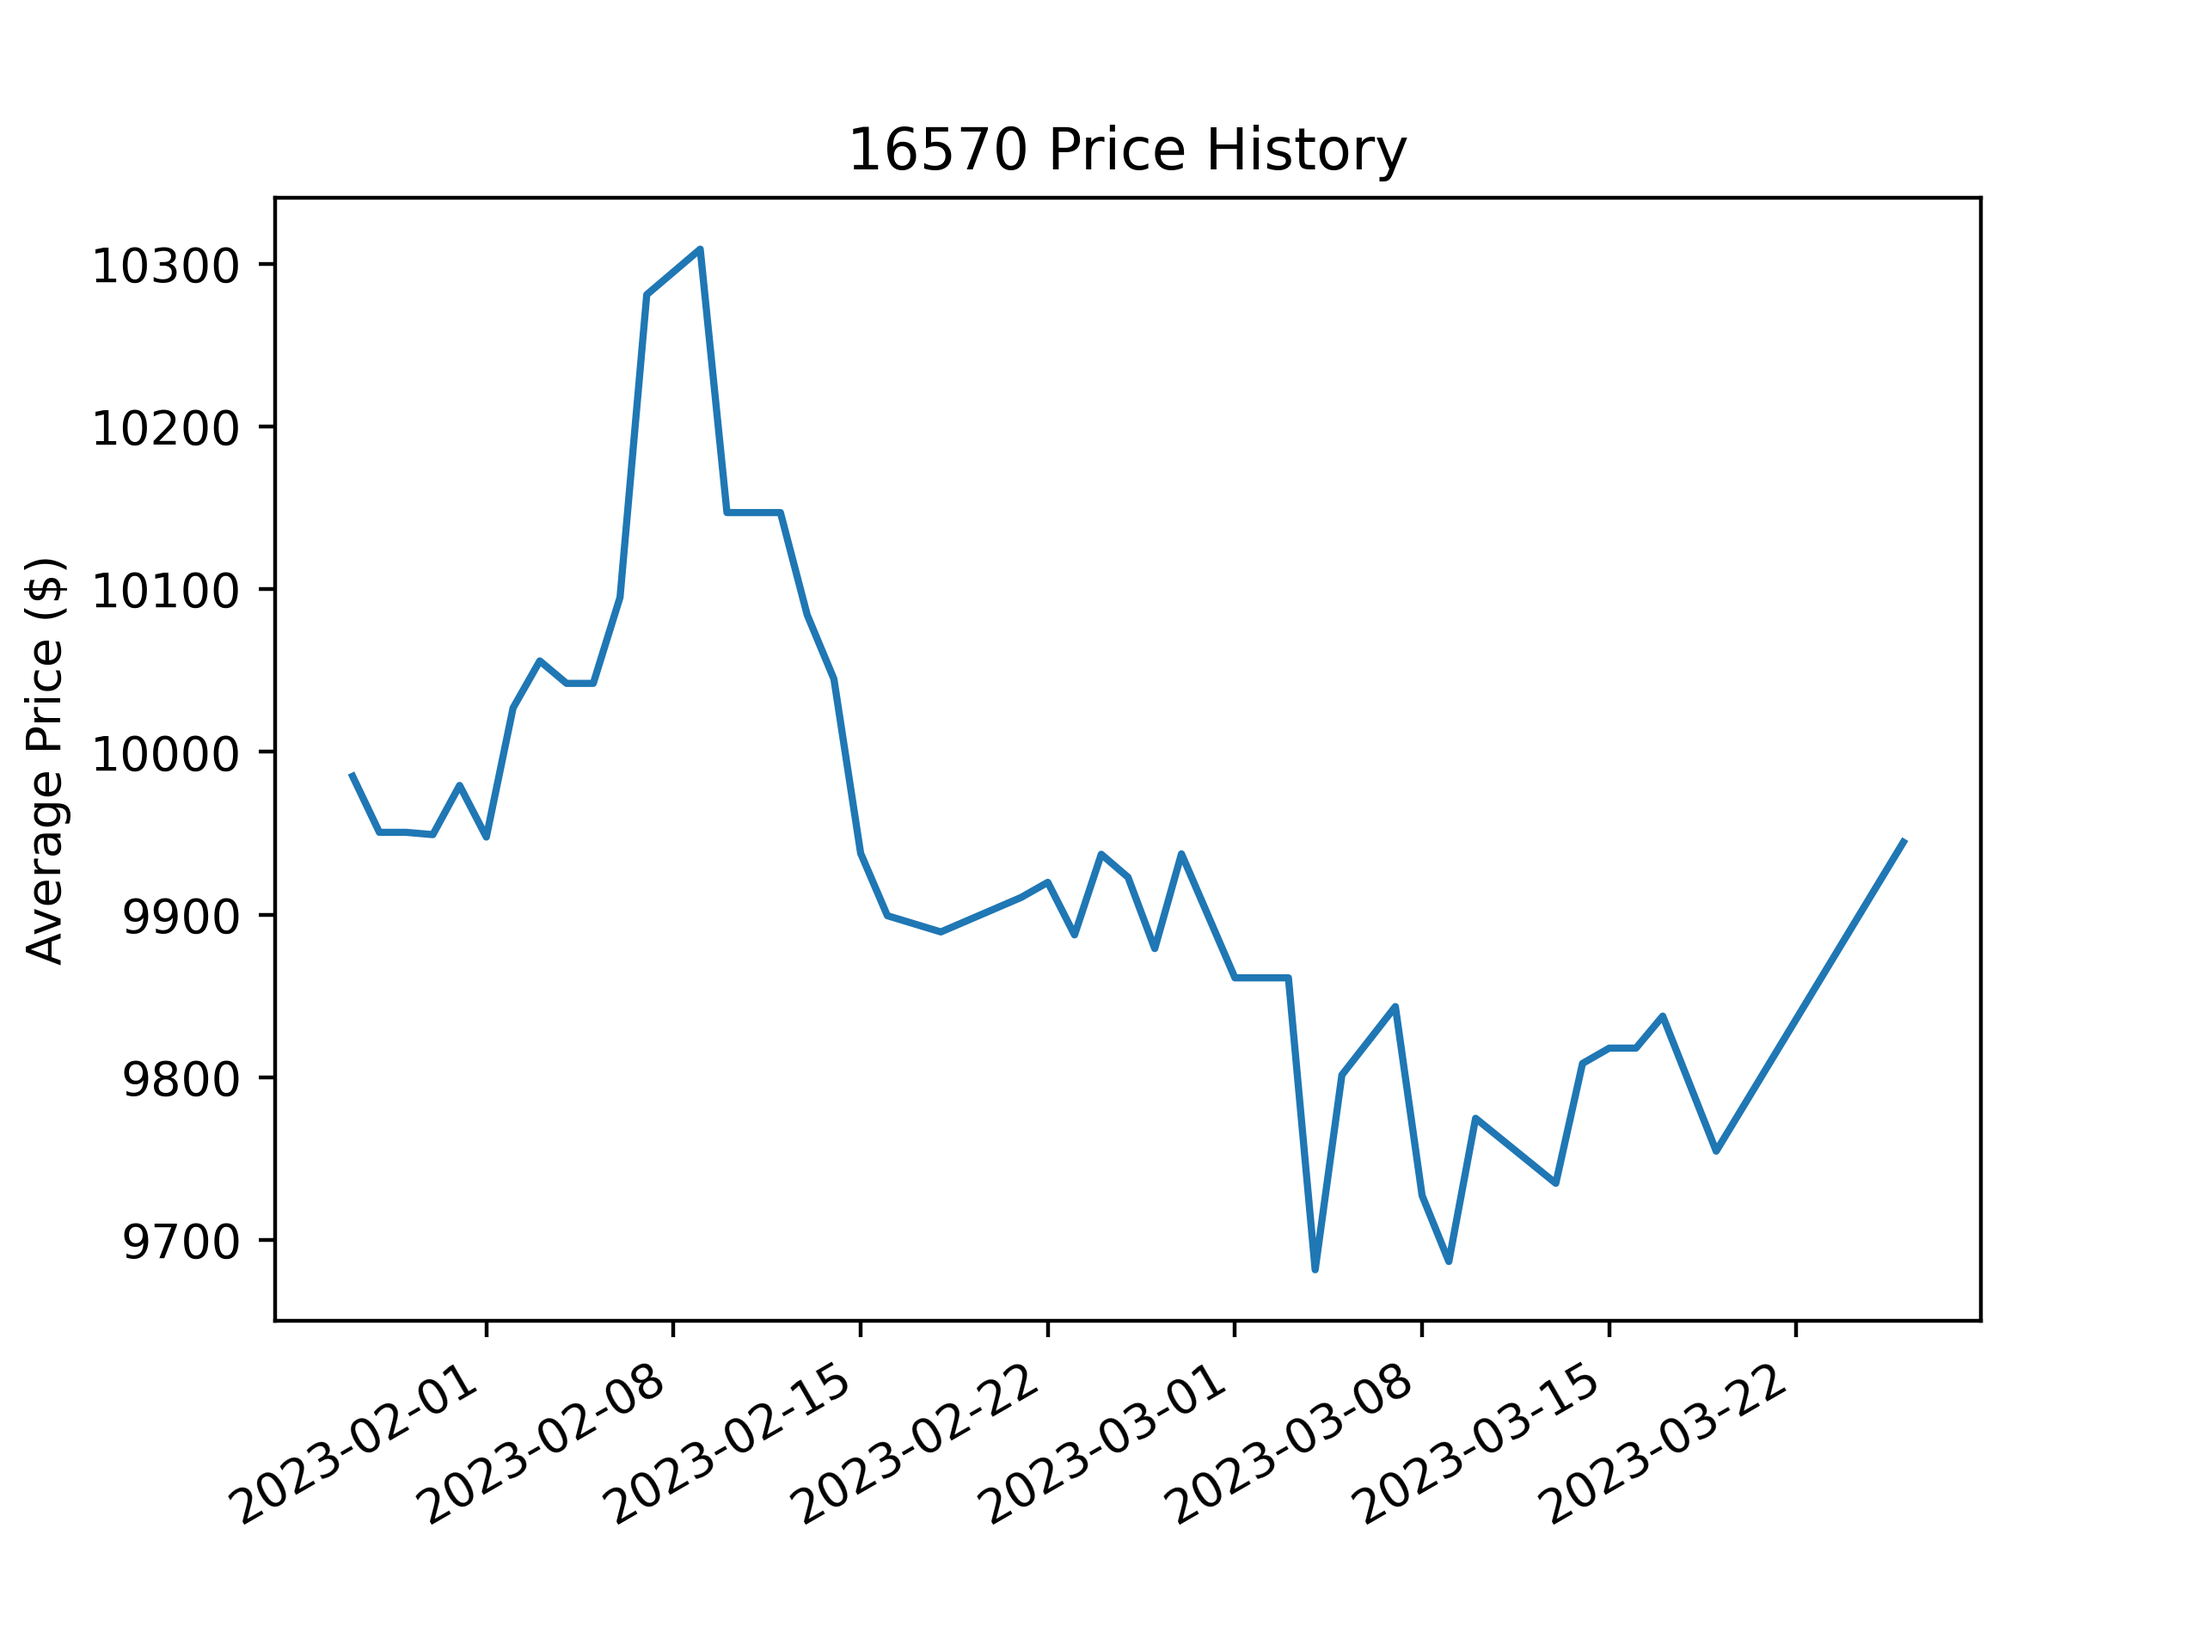
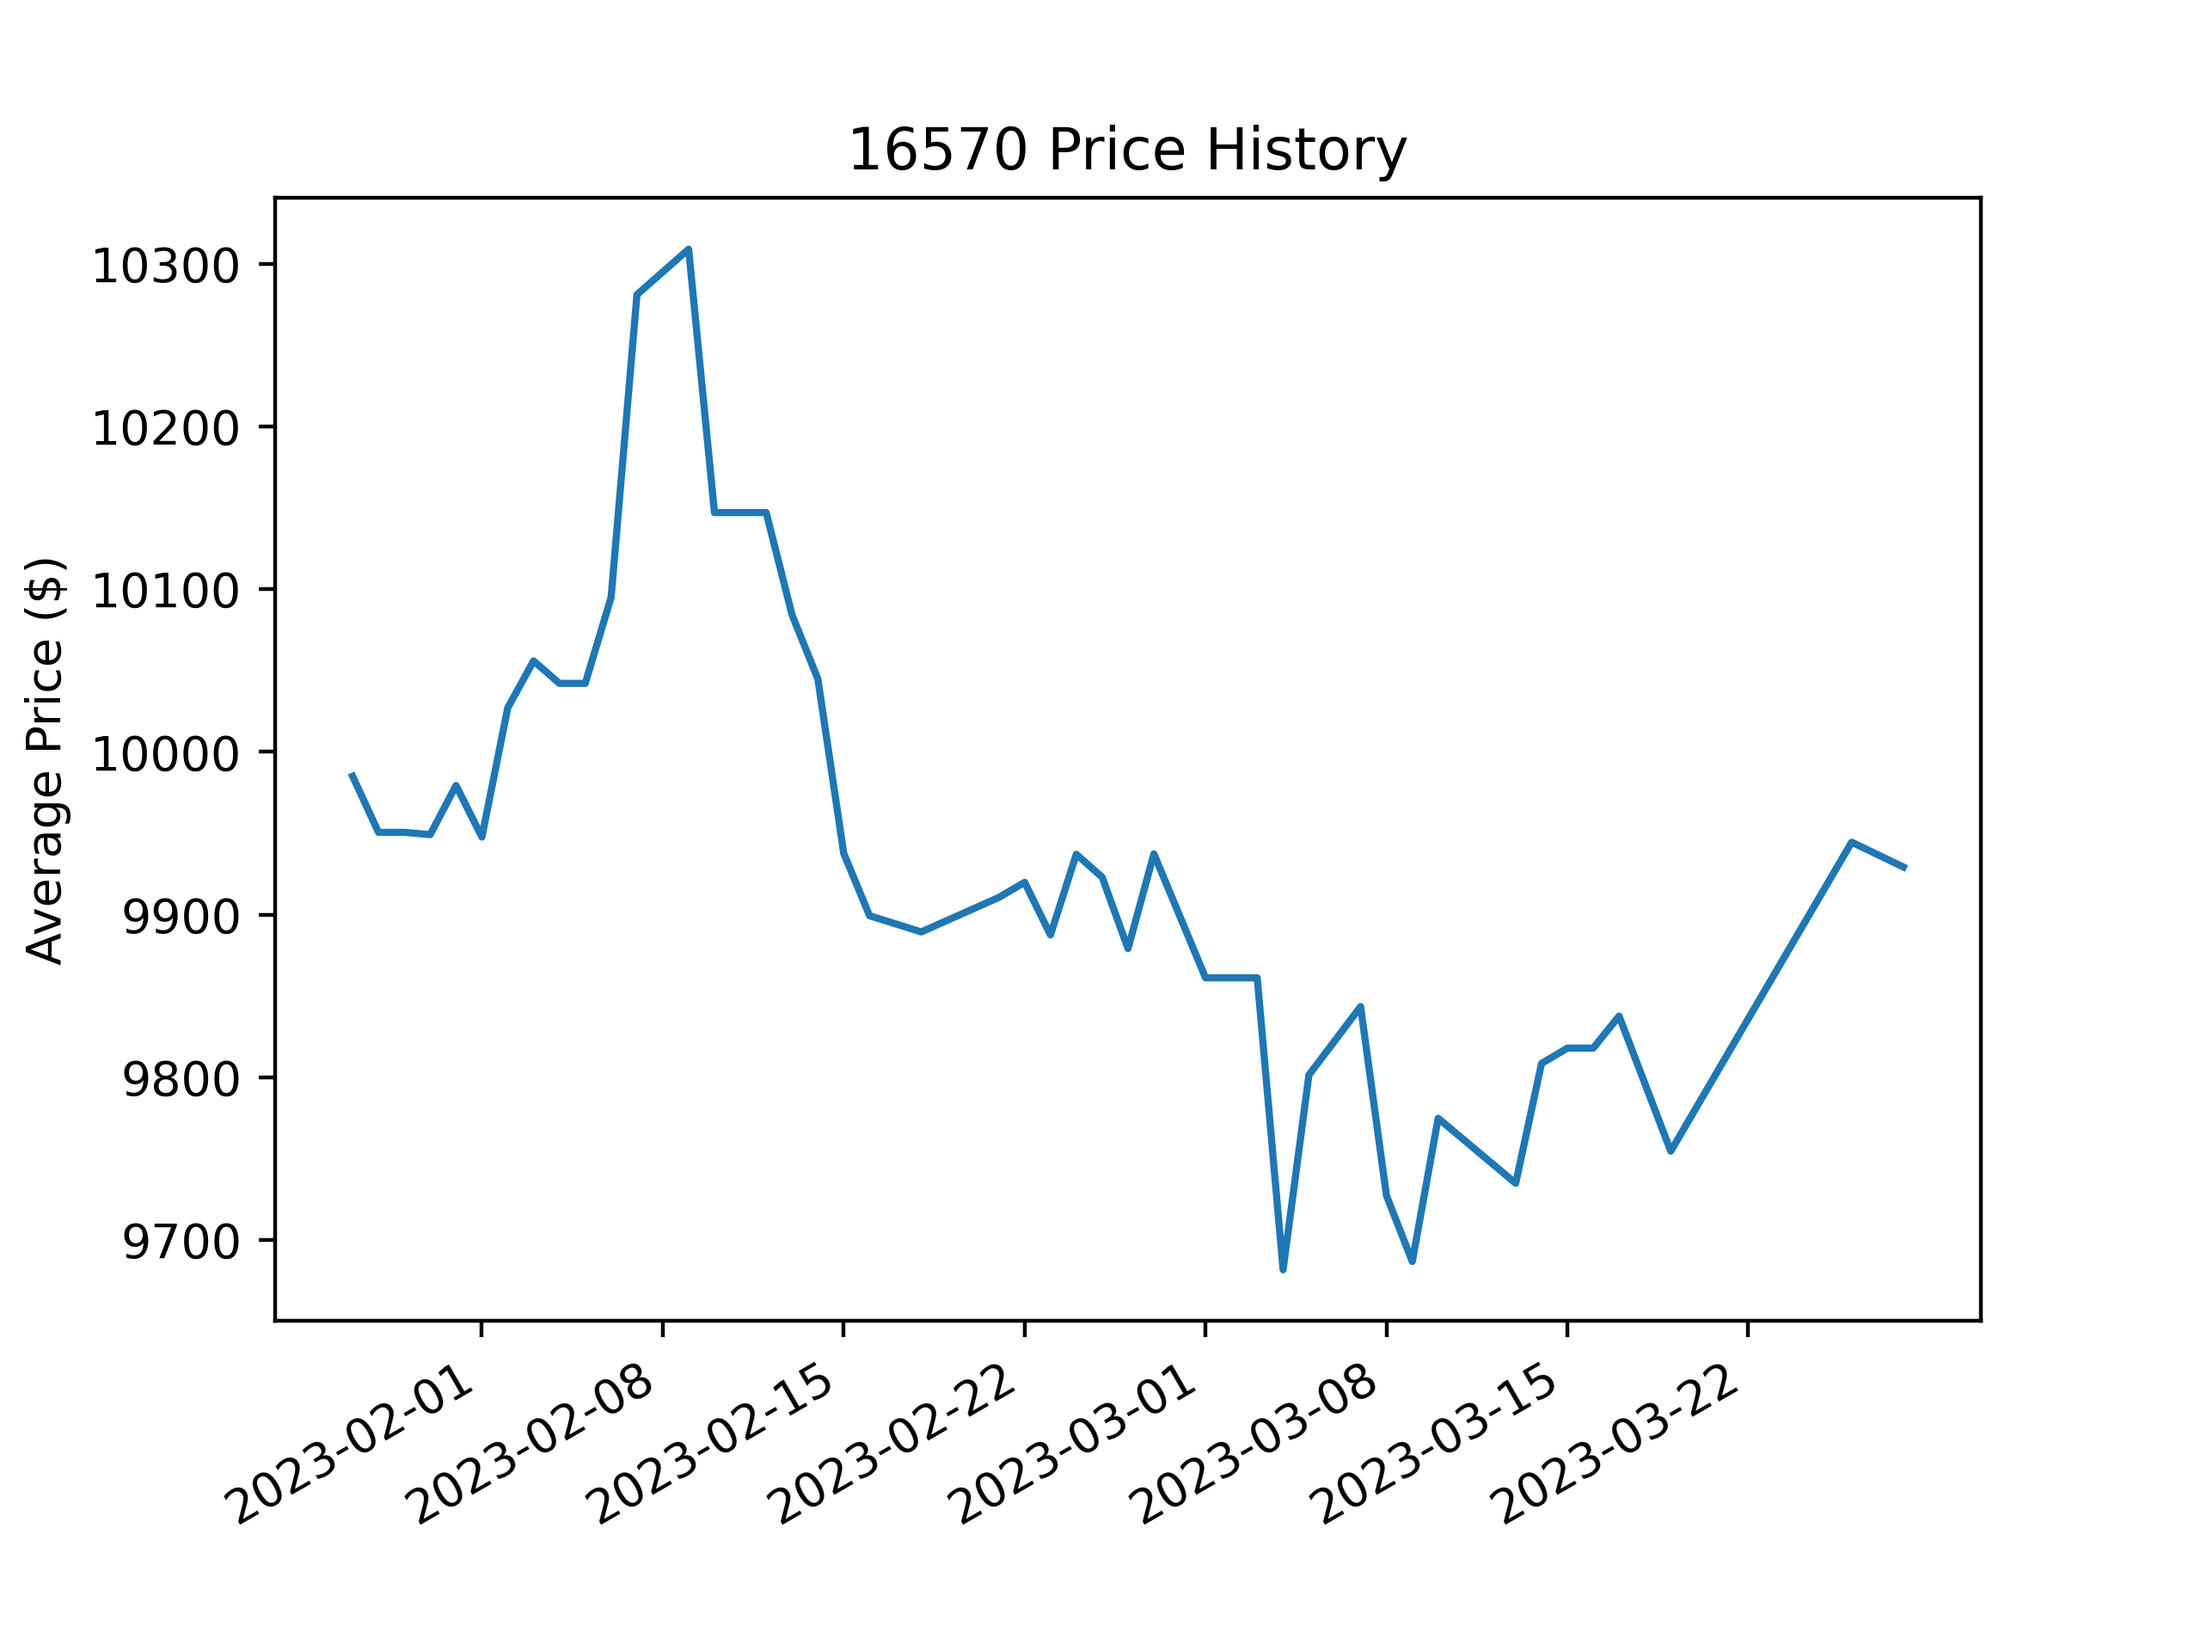
today's prices

diff --git a/watches/16570/listings.html b/watches/16570/listings.html
@@ -1,1 +1,1 @@
-<!DOCTYPE html><html><body><h1>All listings sorted in ascending order by price</h1><div> <a href="https://www.crownandcaliber.com/products/rolex-explorer-ii-16570-10-10-rol-s1rugm" target="_blank" rel="noopener noreferrer">$8275</a> </div><div> <a href="https://www.thewatchbox.com/shop/4560504.html" target="_blank" rel="noopener noreferrer">$8950</a> </div><div> <a href="https://www.crownandcaliber.com/products/rolex-explorer-ii-16570-10-10-rol-40mq2n" target="_blank" rel="noopener noreferrer">$9000</a> </div><div> <a href="https://www.watchfinder.com/Rolex/Explorer II/16570/1780/item/232242" target="_blank" rel="noopener noreferrer">$9050</a> </div><div> <a href="https://www.crownandcaliber.com/products/rolex-explorer-ii-16570-10-10-rol-ngl42x" target="_blank" rel="noopener noreferrer">$9150</a> </div><div> <a href="https://www.crownandcaliber.com/products/rolex-explorer-ii-16570-10-10-rol-rcg6ap" target="_blank" rel="noopener noreferrer">$9150</a> </div><div> <a href="https://www.thewatchbox.com/shop/4652947.html" target="_blank" rel="noopener noreferrer">$9450</a> </div><div> <a href="https://www.watchfinder.com/Rolex/Explorer II/16570/1780/item/241538" target="_blank" rel="noopener noreferrer">$9600</a> </div><div> <a href="https://aiswatches.com/rolex-polar-explorer-ii-16570-p-serial-white-dial-box-papers-rsc-serviced/" target="_blank" rel="noopener noreferrer">$9775.0</a> </div><div> <a href="https://aiswatches.com/rolex-polar-explorer-ii-16570-y-serial-white-dial-box-paper-1/" target="_blank" rel="noopener noreferrer">$9775.0</a> </div><div> <a href="https://www.watchfinder.com/Rolex/Explorer II/16570/1780/item/231382" target="_blank" rel="noopener noreferrer">$9830</a> </div><div> <a href="https://mandbwatches.com/product/rolex-explorer-ii-40mm-16570-stainless-steel-polar-white-dial-w-papers-unpolished/" target="_blank" rel="noopener noreferrer">$9950.0</a> </div><div> <a href="https://www.watchfinder.com/Rolex/Explorer II/16570/1780/item/233065" target="_blank" rel="noopener noreferrer">$10175</a> </div><div> <a href="https://www.watchfinder.com/Rolex/Explorer II/16570/1780/item/241725" target="_blank" rel="noopener noreferrer">$10310</a> </div><div> <a href="https://www.watchfinder.com/Rolex/Explorer II/16570/1780/item/233010" target="_blank" rel="noopener noreferrer">$10310</a> </div><div> <a href="https://www.watchfinder.com/Rolex/Explorer II/16570/1780/item/239520" target="_blank" rel="noopener noreferrer">$10660</a> </div><div> <a href="https://www.watchfinder.com/Rolex/Explorer II/16570/1780/item/235967" target="_blank" rel="noopener noreferrer">$10855</a> </div><div> <a href="https://aiswatches.com/rolex-polar-explorer-ii-16570-v-serial-white-dial-3186-movement-box-papers/" target="_blank" rel="noopener noreferrer">$10975.0</a> </div><div> <a href="https://aiswatches.com/rolex-polar-explorer-ii-16570-m-serial-white-dial-3186-movement-box-papers/" target="_blank" rel="noopener noreferrer">$10975.0</a> </div><div> <a href="https://davidsw.com/shop/watch/rolex/rolex-16570-explorer-ii-with-white-dial-86/" target="_blank" rel="noopener noreferrer">$12675.0</a> </div></body></html>
+<!DOCTYPE html><html><body><h1>All listings sorted in ascending order by price</h1><div> <a href="https://www.crownandcaliber.com/products/rolex-explorer-ii-16570-10-10-rol-s1rugm" target="_blank" rel="noopener noreferrer">$8275</a> </div><div> <a href="https://www.bobswatches.com//mens-rolex-explorer-ii-ref-16570-steel-oyster.html" target="_blank" rel="noopener noreferrer">$8695</a> </div><div> <a href="https://www.thewatchbox.com/shop/4560504.html" target="_blank" rel="noopener noreferrer">$8950</a> </div><div> <a href="https://www.watchfinder.com/Rolex/Explorer II/16570/1780/item/232242" target="_blank" rel="noopener noreferrer">$9050</a> </div><div> <a href="https://www.crownandcaliber.com/products/rolex-explorer-ii-16570-10-10-rol-ngl42x" target="_blank" rel="noopener noreferrer">$9150</a> </div><div> <a href="https://www.crownandcaliber.com/products/rolex-explorer-ii-16570-10-10-rol-rcg6ap" target="_blank" rel="noopener noreferrer">$9150</a> </div><div> <a href="https://www.thewatchbox.com/shop/4652947.html" target="_blank" rel="noopener noreferrer">$9450</a> </div><div> <a href="https://www.watchfinder.com/Rolex/Explorer II/16570/1780/item/241538" target="_blank" rel="noopener noreferrer">$9600</a> </div><div> <a href="https://aiswatches.com/rolex-polar-explorer-ii-16570-p-serial-white-dial-box-papers-rsc-serviced/" target="_blank" rel="noopener noreferrer">$9775.0</a> </div><div> <a href="https://aiswatches.com/rolex-polar-explorer-ii-16570-y-serial-white-dial-box-paper-1/" target="_blank" rel="noopener noreferrer">$9775.0</a> </div><div> <a href="https://www.watchfinder.com/Rolex/Explorer II/16570/1780/item/231382" target="_blank" rel="noopener noreferrer">$9830</a> </div><div> <a href="https://mandbwatches.com/product/rolex-explorer-ii-40mm-16570-stainless-steel-polar-white-dial-w-papers-unpolished/" target="_blank" rel="noopener noreferrer">$9950.0</a> </div><div> <a href="https://www.watchfinder.com/Rolex/Explorer II/16570/1780/item/233065" target="_blank" rel="noopener noreferrer">$10175</a> </div><div> <a href="https://www.watchfinder.com/Rolex/Explorer II/16570/1780/item/241725" target="_blank" rel="noopener noreferrer">$10310</a> </div><div> <a href="https://www.watchfinder.com/Rolex/Explorer II/16570/1780/item/233010" target="_blank" rel="noopener noreferrer">$10310</a> </div><div> <a href="https://www.watchfinder.com/Rolex/Explorer II/16570/1780/item/239520" target="_blank" rel="noopener noreferrer">$10660</a> </div><div> <a href="https://www.watchfinder.com/Rolex/Explorer II/16570/1780/item/235967" target="_blank" rel="noopener noreferrer">$10855</a> </div><div> <a href="https://aiswatches.com/rolex-polar-explorer-ii-16570-v-serial-white-dial-3186-movement-box-papers/" target="_blank" rel="noopener noreferrer">$10975.0</a> </div><div> <a href="https://aiswatches.com/rolex-polar-explorer-ii-16570-m-serial-white-dial-3186-movement-box-papers/" target="_blank" rel="noopener noreferrer">$10975.0</a> </div><div> <a href="https://davidsw.com/shop/watch/rolex/rolex-16570-explorer-ii-with-white-dial-86/" target="_blank" rel="noopener noreferrer">$12675.0</a> </div></body></html>
